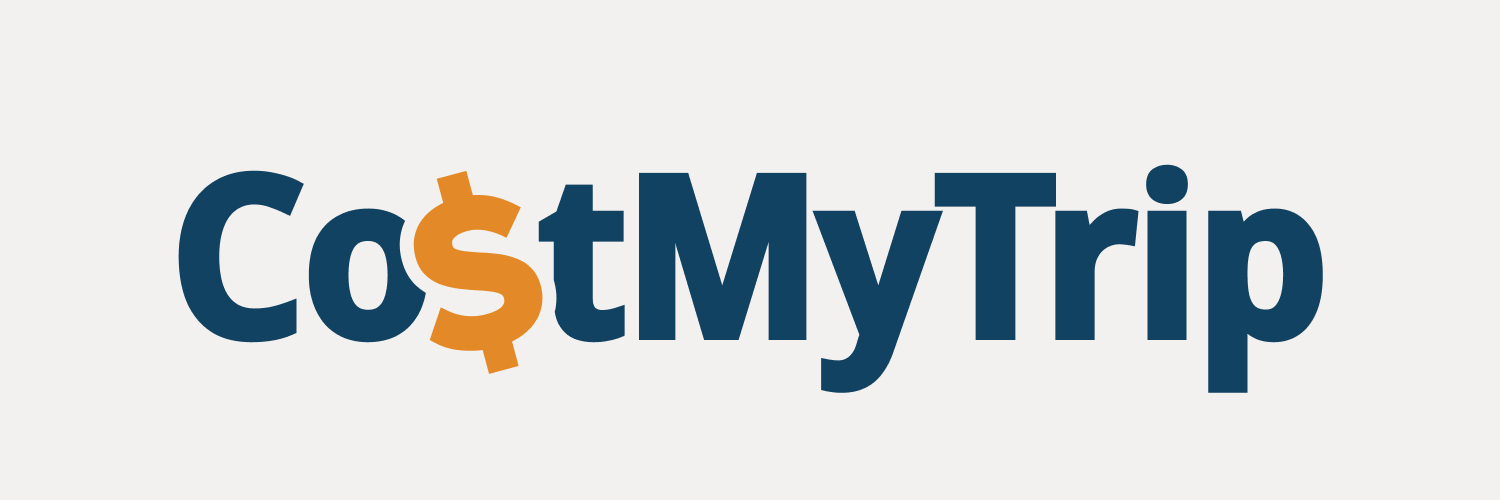
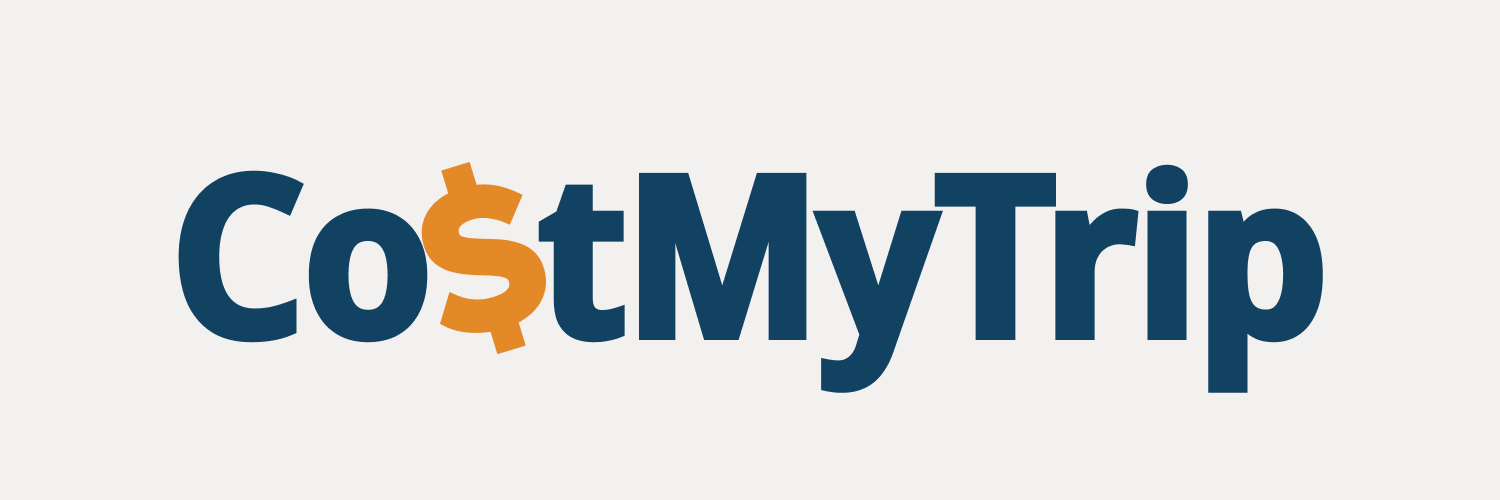
Update header images and layout configuration
- Updated header.png and header.svg images
- Removed unused logo.png file
- Modified layout.tsx configuration

Changed region(s): [[0.2453, 0.42, 0.368, 0.75], [0.276, 0.33, 0.368, 0.42]]

diff --git a/src/app/layout.tsx b/src/app/layout.tsx
@@ -30,7 +30,7 @@ export default async function RootLayout({
   return (
     <html lang="en">
       <body
-        className={`${notoSans.variable} ${notoSansMono.variable} antialiased`}
+        className={`${notoSans.variable} ${notoSansMono.variable} antialiased bg-stone`}
       >
         {!isSigninPage && <Header />}
         <main>{children}</main>
